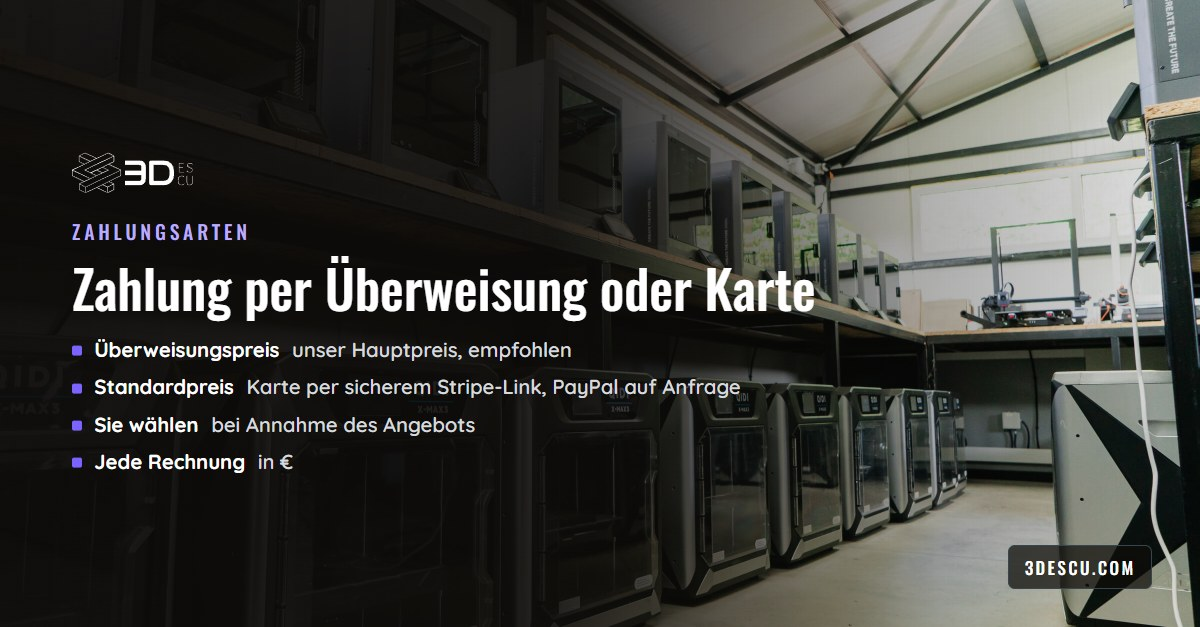
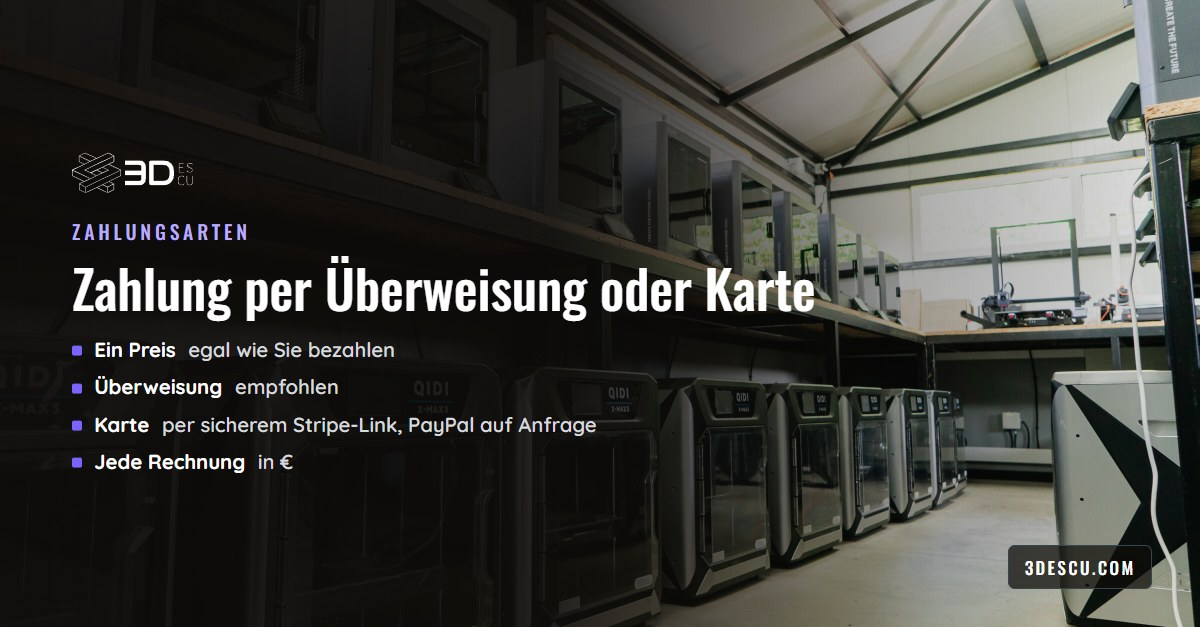
Release the 6 payment posts with one-price images
The gfx/payments images are re-rendered from the 2 Oct template with
one-price bullets (one price whichever way you pay, bank transfer recommended,
card via Stripe, PayPal on request, every invoice in EUR), same photos,
layout and sizes. The 6 DE/FR/NL rows held in the previous commit are live
again (Draft FALSE). The guard that nothing auto-scheduled from 8 Oct
describes two prices stays.

Changed region(s): [[0.0617, 0.6061, 0.6167, 0.6364], [0.0617, 0.6667, 0.4933, 0.697], [0.0617, 0.5455, 0.4933, 0.5758]]

diff --git a/test/check.test.ts b/test/check.test.ts
@@ -19,9 +19,7 @@ const committed = JSON.parse(readFileSync('data/schedule.json', 'utf8')) as Entr
 test('calendar parse: 197 rows in, drafts excluded, committed schedule is current', () => {
   assert.equal(rows.length, 197);
   const drafts = rows.filter((r) => r.Draft === 'TRUE').length;
-  // 4 original drafts + the 6 DE/FR/NL card-payment posts held on 2026-10-07: their images still
-  // show the old two-price model, so they wait as drafts until the one-price images are rendered.
-  assert.equal(drafts, 10);
+  assert.equal(drafts, 4);
   const built = buildSchedule(rows);
   assert.equal(built.length, 197 - drafts);
   assert.ok(built.every((e) => e.draft === false));
@@ -164,9 +162,9 @@ test('50/50 is only ever offered by bank transfer', () => {
 const PAY = committed.filter((e) => e.media.some((m) => m.startsWith('gfx/payments/')));
 const CARD_COST = /\b(fees?|surcharges?)\b|Gebühr|Aufpreis|\bfrais\b|supplément|toeslag|\bkosten\b/i;
 
-test('card payments posts: 4 already out, 6 held, no card-cost wording, one post per channel per day', () => {
-  assert.equal(PAY.length, 4);
-  assert.deepEqual(PAY.map((e) => e.channel).sort().join(), 'facebook,instagram,linkedin,linkedin');
+test('card payments posts: 10 posts, no card-cost wording, one post per channel per day', () => {
+  assert.equal(PAY.length, 10);
+  assert.deepEqual(PAY.map((e) => e.channel).sort().join(), 'facebook,facebook,facebook,facebook,instagram,instagram,instagram,instagram,linkedin,linkedin');
   // One price for every payment method since 2026-10-07: nothing still to publish may describe two prices.
   const TWO_PRICES = /bank transfer price|standard price|Überweisungspreis|Standardpreis|prix virement|prix standard|overboekingsprijs|standaardprijs/i;
   for (const e of committed.filter((x) => x.mode === 'auto' && x.local >= '2026-10-08')) {
